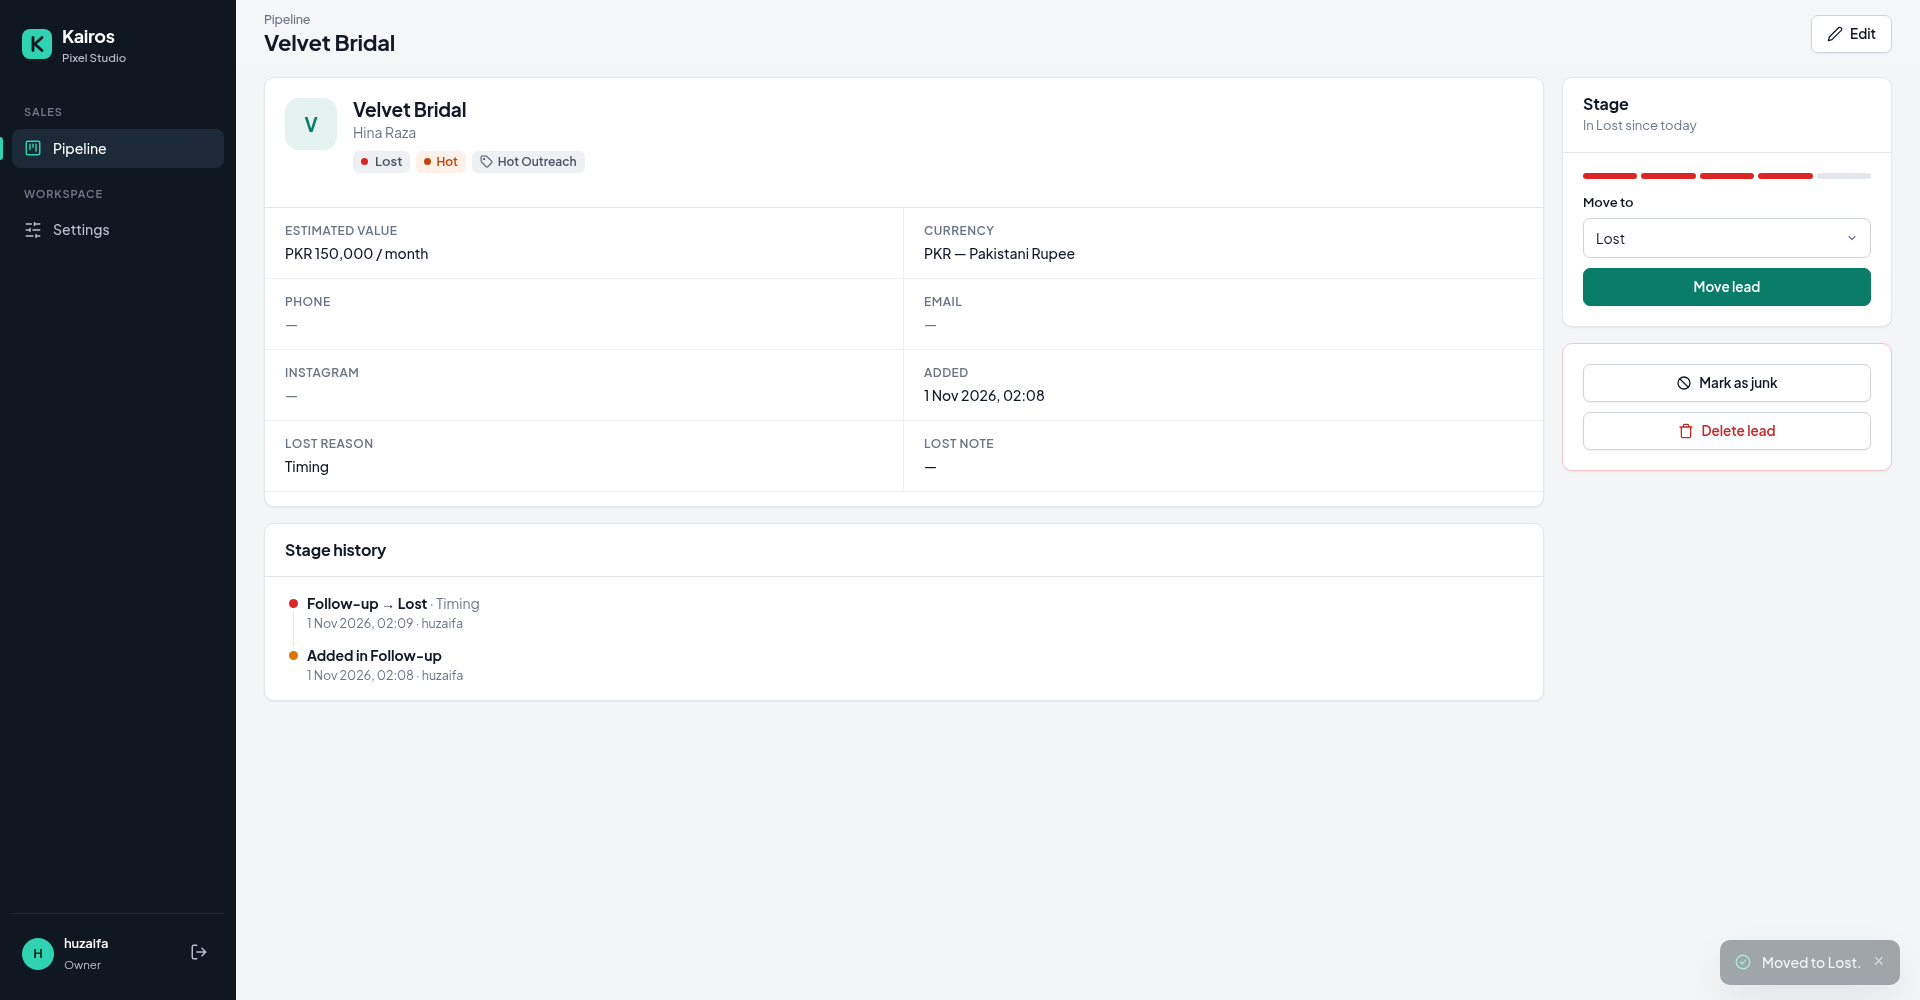
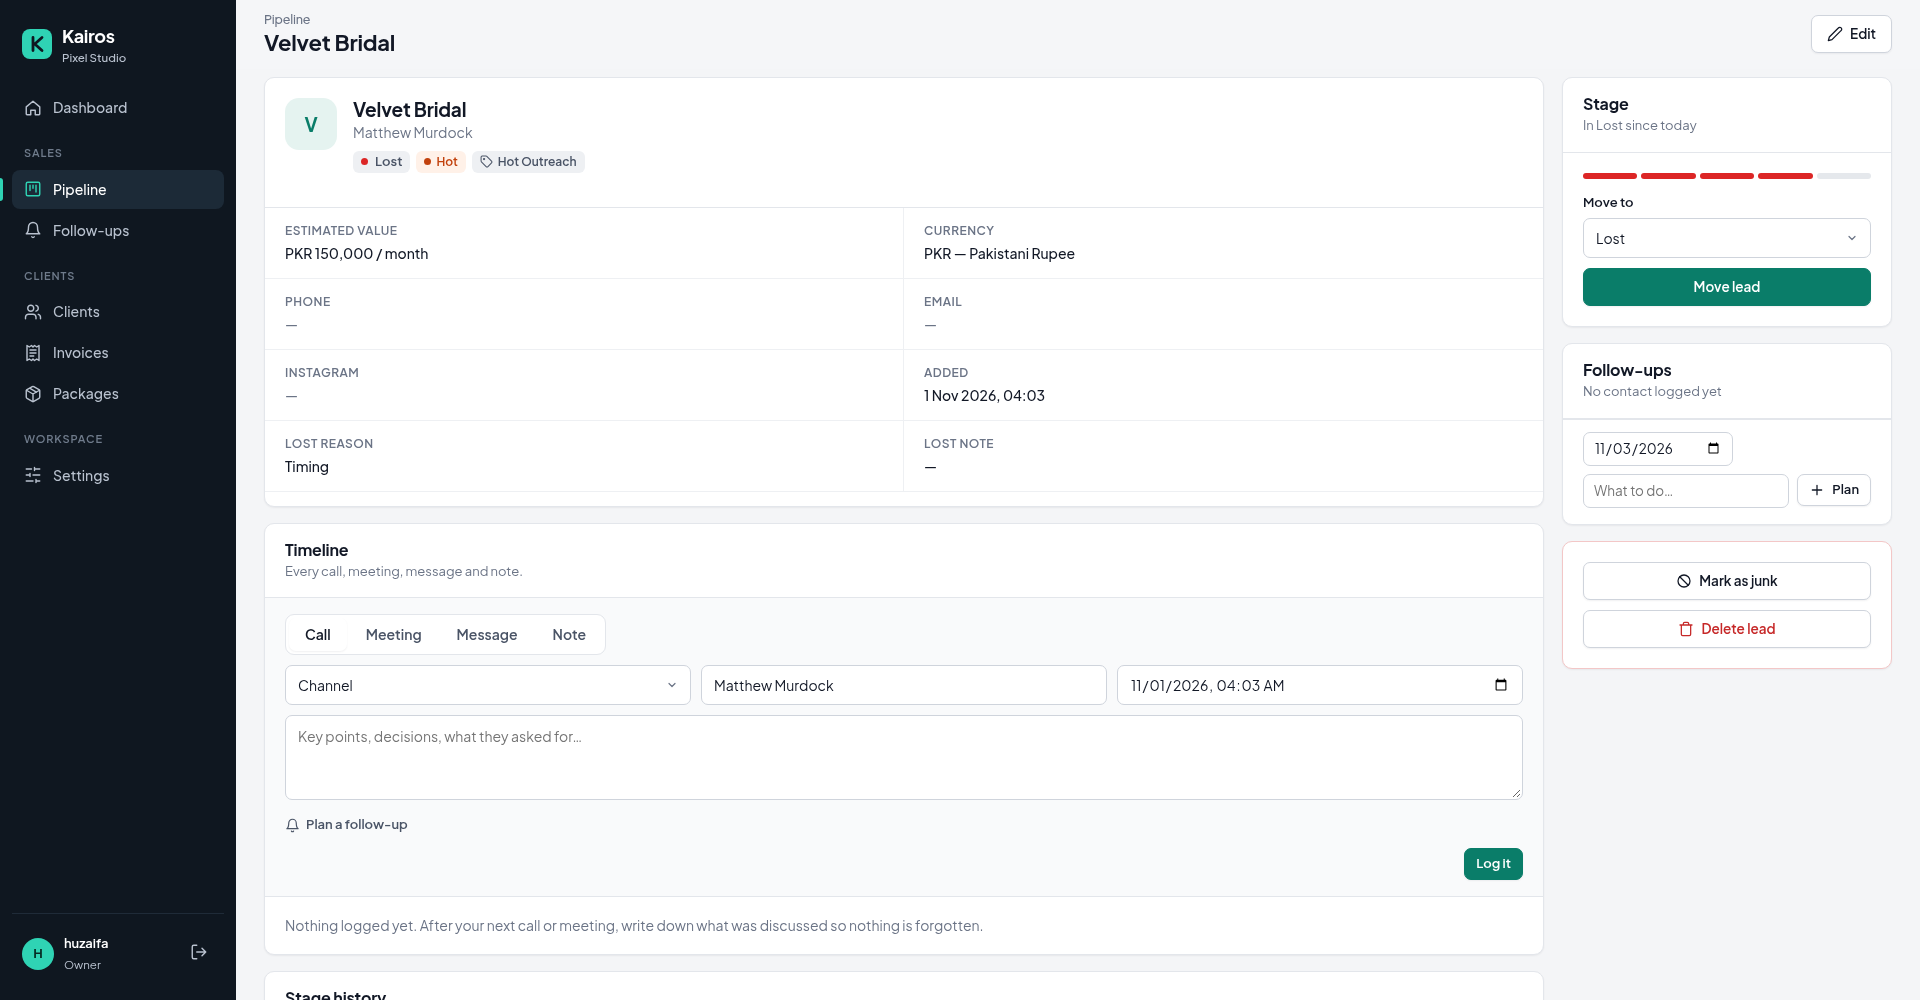
Updated Screenshots

diff --git a/tests/test_views.py b/tests/test_views.py
@@ -24,11 +24,11 @@ def test_first_run_sends_everything_to_setup(client):
 def test_setup_creates_owner_and_agency(client):
     res = client.post("/setup/", {
         "agency_name": "Pixel & Co", "default_currency": "USD", "timezone": "Asia/Karachi",
-        "username": "sara", "email": "", "password1": "Brand-new-pass-9", "password2": "Brand-new-pass-9",
+        "username": "matthew", "email": "", "password1": "Brand-new-pass-9", "password2": "Brand-new-pass-9",
     })
     assert res.status_code == 302
     user = get_user_model().objects.get()
-    assert user.username == "sara" and user.is_superuser
+    assert user.username == "matthew" and user.is_superuser
     assert user.password.startswith("pbkdf2_")  # stored hashed, never plain
     agency = AgencySettings.load()
     assert (agency.name, agency.default_currency, agency.timezone) == ("Pixel & Co", "USD", "Asia/Karachi")
@@ -38,7 +38,7 @@ def test_setup_creates_owner_and_agency(client):
 def test_setup_rejects_weak_password(client):
     res = client.post("/setup/", {
         "agency_name": "A", "default_currency": "USD", "timezone": "UTC",
-        "username": "sara", "password1": "12345678", "password2": "12345678",
+        "username": "matthew", "password1": "12345678", "password2": "12345678",
     })
     assert res.status_code == 200
     assert not get_user_model().objects.exists()
@@ -74,8 +74,8 @@ def test_wrong_password_shows_error(client, owner):
 # ---- Pipeline pages ----------------------------------------------------------
 
 def test_board_shows_columns_and_totals(client_in, make_lead):
-    make_lead("Ali", company="Bake House", estimated_value=50000)
-    make_lead("Sam", estimated_value=1500, currency="USD")
+    make_lead("Matthew Murdock", company="Bake House", estimated_value=50000)
+    make_lead("Matthew Murdock", estimated_value=1500, currency="USD")
     res = client_in.get("/pipeline/")
     html = res.content.decode()
     for label in ["New Lead", "Discovery Call", "Proposal Sent", "Follow-up", "Won", "Lost"]:
@@ -108,7 +108,7 @@ def test_board_filters(client_in, make_lead):
 
 def test_create_lead(client_in, source):
     res = client_in.post("/pipeline/leads/new/", {
-        "name": "Ayesha", "company": "Glow Skincare", "source": source.pk, "temperature": "hot",
+        "name": "Matthew Murdock", "company": "Glow Skincare", "source": source.pk, "temperature": "hot",
         "stage": "discovery", "estimated_value": "75000", "currency": "PKR", "instagram": "@glow.skin",
     })
     lead = Lead.objects.get()

diff --git a/tests/test_clients.py b/tests/test_clients.py
@@ -13,7 +13,7 @@ pytestmark = pytest.mark.django_db
 
 
 def test_convert_lead_creates_client_and_contact(make_lead, package, owner):
-    lead = make_lead("Ayesha Khan", company="Glow Skincare", stage="proposal",
+    lead = make_lead("Matthew Murdock", company="Glow Skincare", stage="proposal",
                      phone="0300", email="a@glow.pk", instagram="glow.skin", estimated_value=80000)
     client = services.convert_lead(lead, Client(company="Glow Skincare", currency="PKR", package=package,
                                                 monthly_fee=80000), user=owner)
@@ -22,7 +22,7 @@ def test_convert_lead_creates_client_and_contact(make_lead, package, owner):
     assert StageChange.objects.filter(lead=lead, to_stage="won").exists()
     assert client.lead == lead and client.instagram == "glow.skin"
     contact = client.contacts.get()
-    assert (contact.name, contact.phone, contact.email, contact.is_primary) == ("Ayesha Khan", "0300", "a@glow.pk", True)
+    assert (contact.name, contact.phone, contact.email, contact.is_primary) == ("Matthew Murdock", "0300", "a@glow.pk", True)
 
 
 def test_cannot_convert_twice(make_lead):
@@ -44,7 +44,7 @@ def test_converted_lead_stays_won_and_cannot_be_deleted(client_in, make_lead):
 
 
 def test_convert_page_prefills_and_creates(client_in, make_lead, package):
-    lead = make_lead("Bilal", company="Urban Bites", stage="won", estimated_value=120000)
+    lead = make_lead("Matthew Murdock", company="Urban Bites", stage="won", estimated_value=120000)
     res = client_in.get(f"/clients/from-lead/{lead.pk}/")
     form = res.context["form"]
     assert form["company"].value() == "Urban Bites" and str(form["monthly_fee"].value()) == "120000.00"
@@ -77,7 +77,7 @@ def test_client_timeline_includes_lead_history(client_in, make_lead, owner):
 def test_create_client_directly_with_contact(client_in):
     res = client_in.post("/clients/new/", {
         "company": "Velvet Bridal", "currency": "USD", "start_date": "2026-10-01",
-        "contact-name": "Hina", "contact-phone": "0311",
+        "contact-name": "Matthew Murdock", "contact-phone": "0311",
     })
     client = Client.objects.get()
     assert res.url == client.get_absolute_url()

diff --git a/tests/test_regressions.py b/tests/test_regressions.py
@@ -89,7 +89,7 @@ def test_pdf_handles_non_latin_names(client_in, make_client):
     from apps.clients.models import Contact
     from apps.invoices.models import Invoice, InvoiceLine
     c = make_client("مہک بیوٹی سیلون", address="Şişli, İstanbul · Łódź · Hà Nội")
-    Contact.objects.create(client=c, name="Ayşe Łukasz", is_primary=True)
+    Contact.objects.create(client=c, name="Matthew Murdock", is_primary=True)
     inv = Invoice.objects.create(number="INV-0009", client=c, currency="PKR", due_date=timezone.localdate())
     InvoiceLine.objects.create(invoice=inv, description="ماہانہ پیکیج — Growth", unit_price=100)
     pdf = client_in.get(f"/invoices/{inv.pk}/pdf/").content

diff --git a/tests/test_activity.py b/tests/test_activity.py
@@ -28,7 +28,7 @@ def test_log_activity_with_follow_up(client_in, make_lead):
     when = timezone.localtime().strftime("%Y-%m-%dT%H:%M")
     due = (timezone.localdate() + timedelta(days=3)).isoformat()
     res = client_in.post(f"/activity/lead/{lead.pk}/log/", {
-        "kind": "call", "channel": "whatsapp", "contact_name": "Ali", "occurred_at": when,
+        "kind": "call", "channel": "whatsapp", "contact_name": "Matthew Murdock", "occurred_at": when,
         "summary": "Talked about the Growth package", "follow_up_date": due, "follow_up_note": "",
     })
     assert res.url == f"{lead.get_absolute_url()}#timeline"

diff --git a/tests/test_invoices.py b/tests/test_invoices.py
@@ -175,7 +175,7 @@ def test_delete_unpaid(client_in, make_client):
 def test_pdf(client_in, make_client):
     from apps.clients.models import Contact
     c = make_client("Glow <Skincare> & Co", address="12 Main Blvd\nLahore")
-    Contact.objects.create(client=c, name="Ayesha", email="a@glow.pk", is_primary=True)
+    Contact.objects.create(client=c, name="Matthew Murdock", email="a@glow.pk", is_primary=True)
     agency = AgencySettings.load()
     agency.payment_details = "Bank: Meezan\nIBAN: PK00"
     agency.save()
